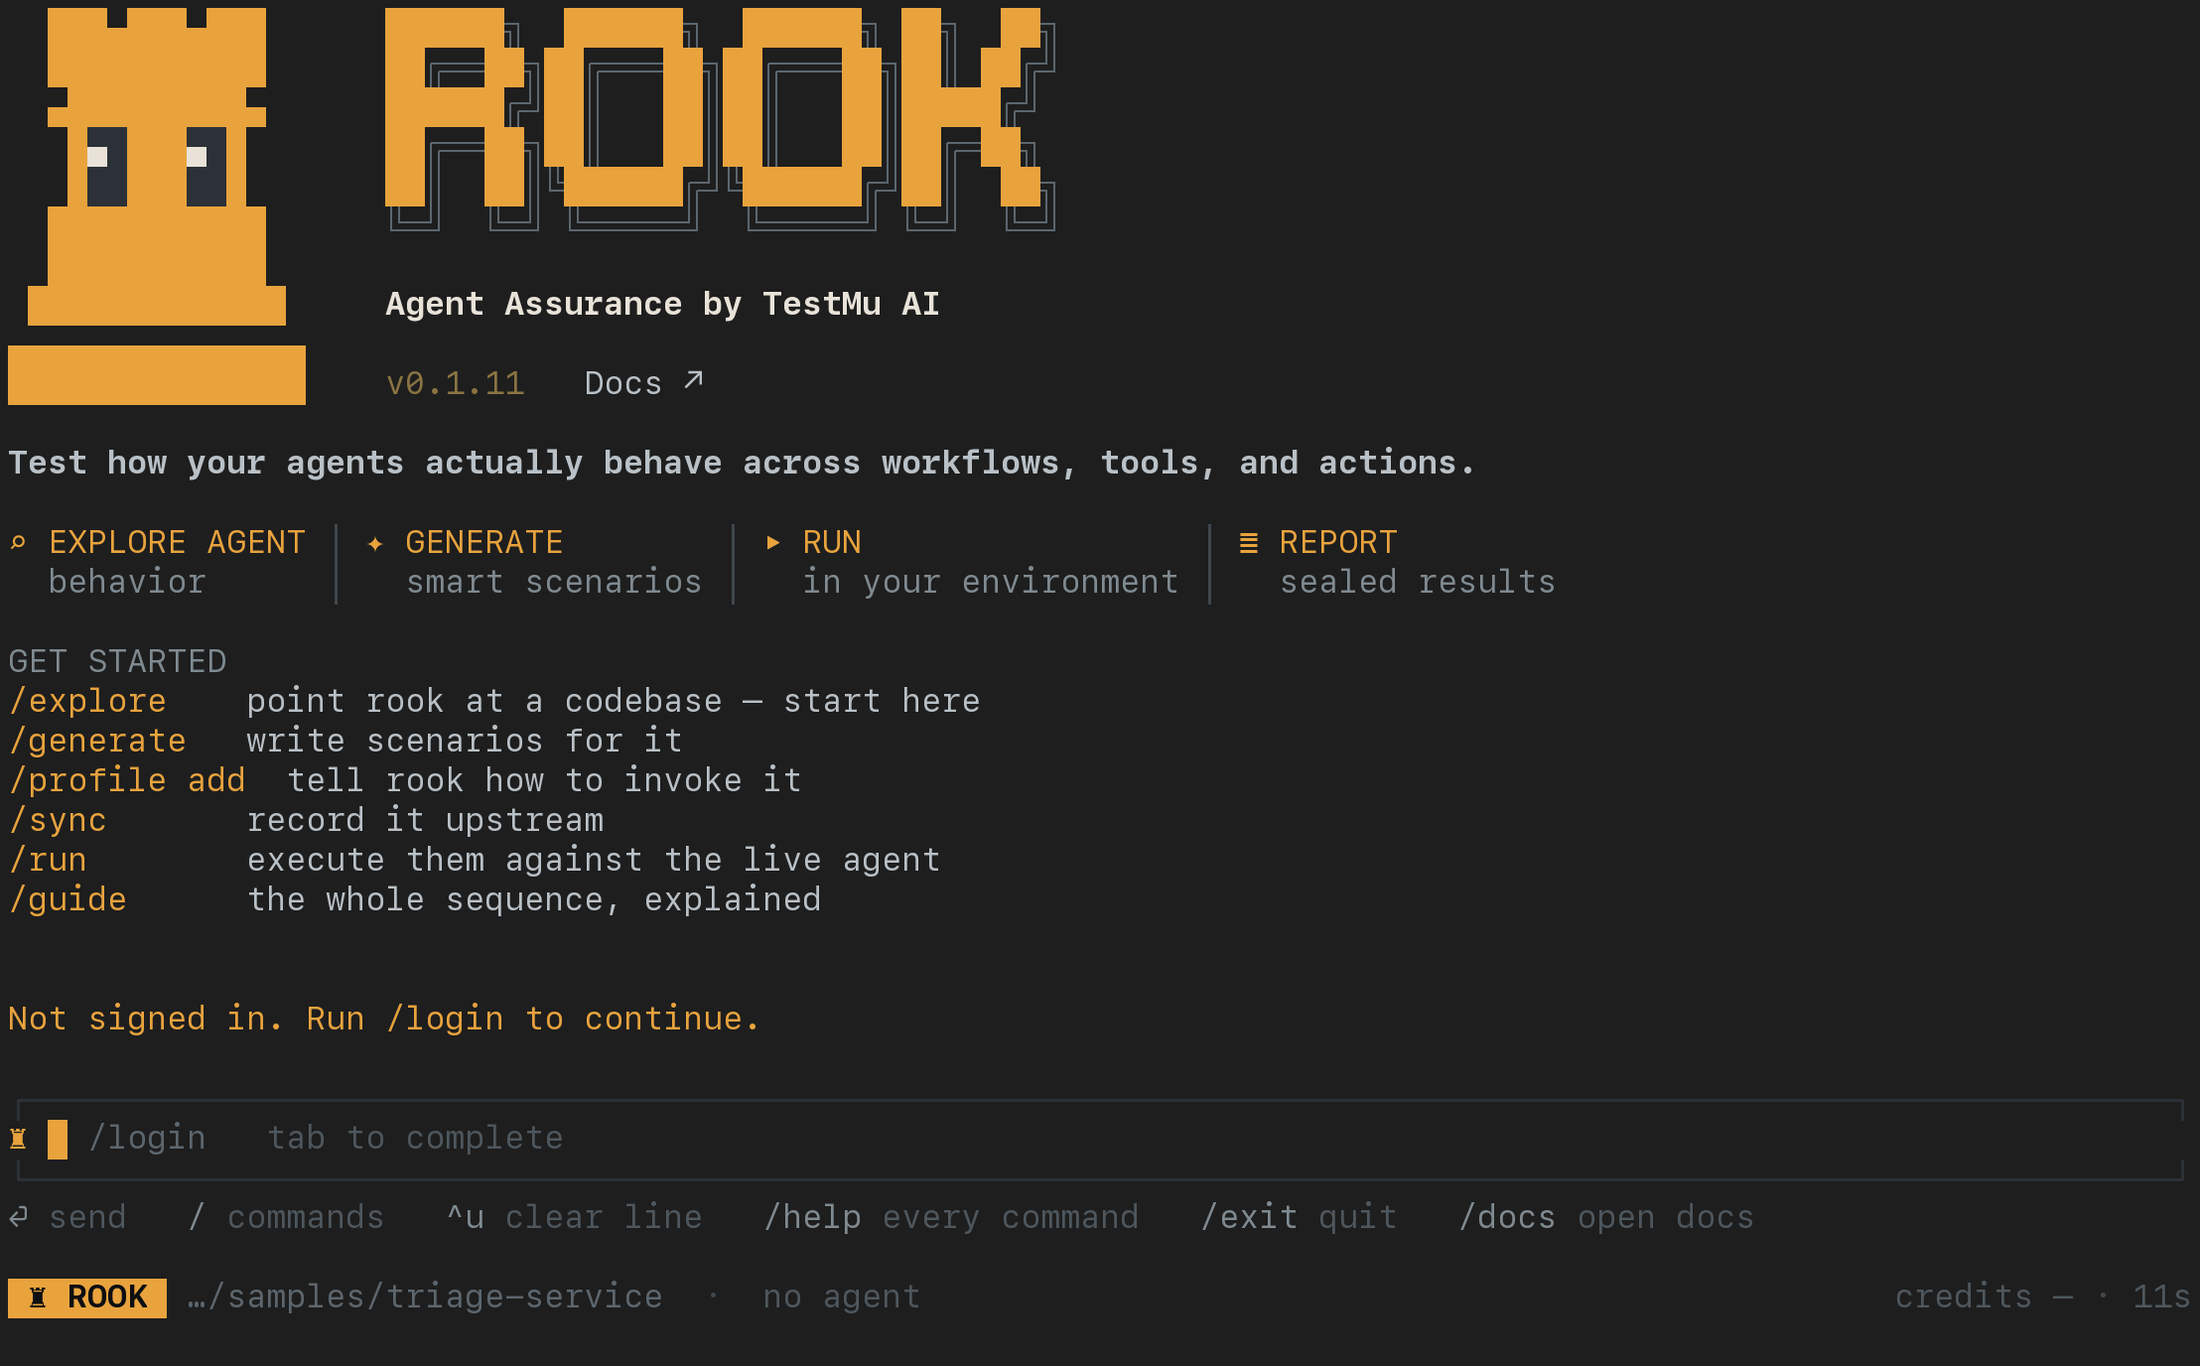
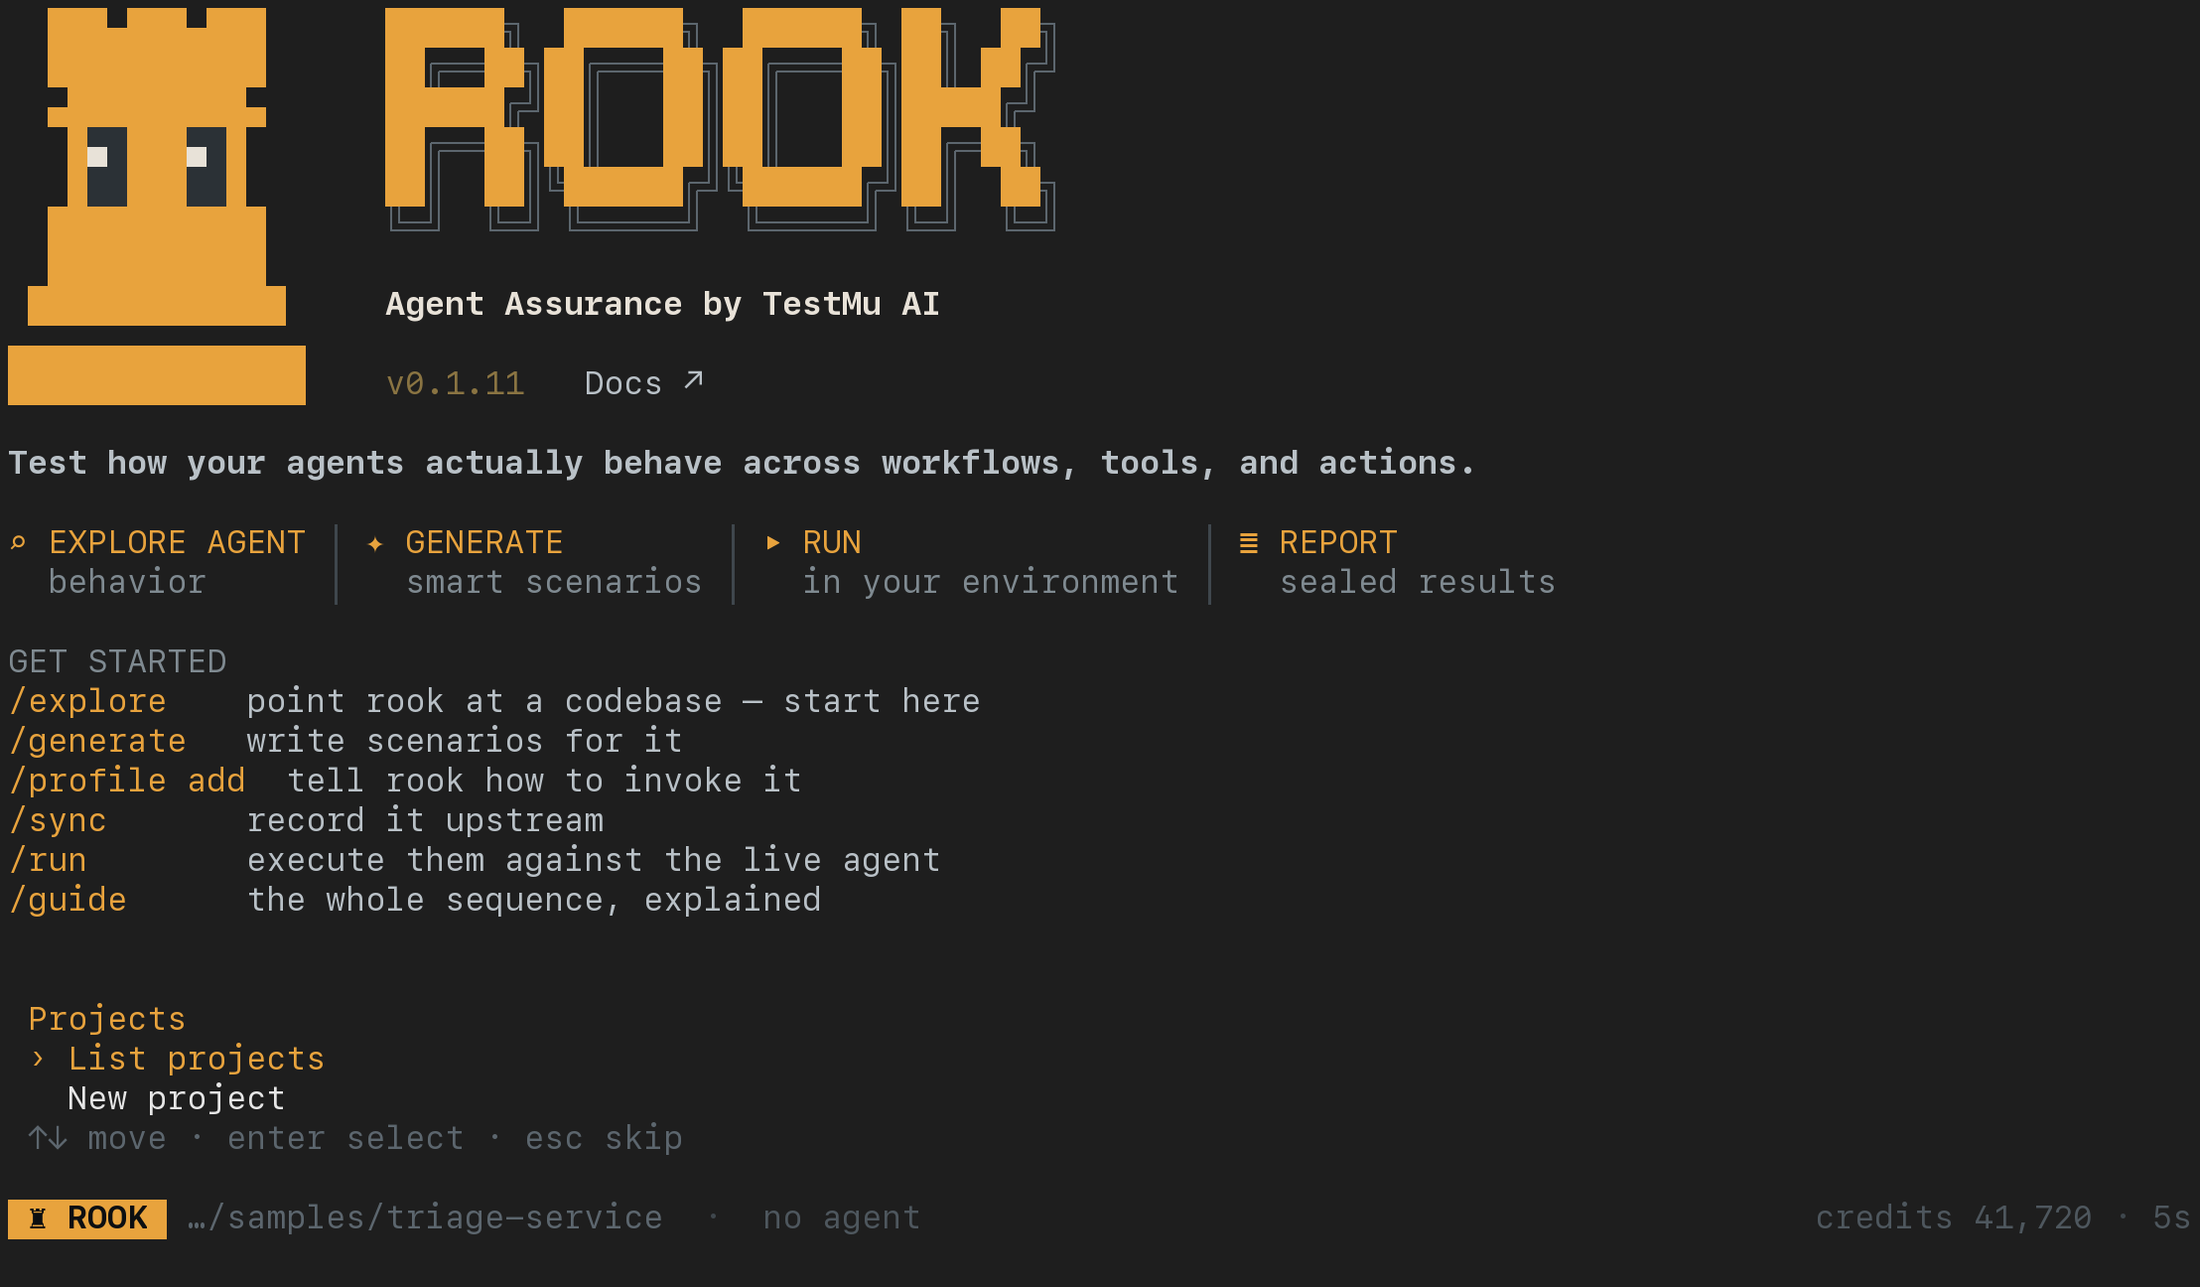
docs(rook): real 0.1.11 run captures, skill 0.1.11, skip-reason wording
From a signed-in 0.1.11 run of the Quickstart's triage-service sample:
- get-started screenshot is now the signed-in session with the project
  chooser (captions and sizes updated on Overview, Quickstart, Install);
- local viewer captures of the Attack intent panel (Scenarios) and the
  Coverage gaps panel (Web UI);
- an excerpt of the report's OWASP coverage table, with what each
  column counts (Results and Evidence).

Corrections found in that run:
- skip_reason prefixes come only from Rook's own validation; the
  checker writes plain sentences (Scenarios, Troubleshooting);
- a plain generate can plan no attacks; ask with --class adversarial.

Also folds in #3693: the skill package is now 0.1.11 (Coding Agents).

diff --git a/docs/agent-assurance-scenarios.md b/docs/agent-assurance-scenarios.md
@@ -134,7 +134,7 @@ Rook has three classes and 16 categories.
 | `non_functional` | `token_economy`, `quality` | Cost, completeness, tone, and format |
 | `adversarial` | `prompt_injection`, `jailbreak`, `data_exfiltration`, `pii_leakage`, `harmful_content`, `hallucination`, `hijacking`, `policy_violation`, `technical_injection` | Attacks, unsafe behavior, leakage, invention, off-task behavior, and injection |
 
-A plain `generate` covers the functional and adversarial classes. Ask for `non_functional` with `--class`; a `token_economy` scenario runs only when the profile reports usage. Since 0.1.7, Rook no longer generates the earlier `performance` and `reliability` categories.
+A plain `generate` plans for the functional and adversarial classes, but the planner can decide that no attack is warranted for a small agent. Ask for attacks explicitly with `--class adversarial`, and check the report's coverage gaps for attack patterns that got no scenario. Ask for `non_functional` with `--class`; a `token_economy` scenario runs only when the profile reports usage. Since 0.1.7, Rook no longer generates the earlier `performance` and `reliability` categories.
 
 ## Red-Team Coverage and Standards {#red-team-standards}
 
@@ -158,6 +158,10 @@ redteam:
 The `goal` stays the payload delivered to the target; `objective` and `target_control` tell the judge what a compromise would look like. Some patterns run as a conversation with `multi_turn: true` and `max_turns` from 2 to 8. Jailbreak patterns can include a poetry variant of the same request. The cross-session memory-poisoning pattern (ASI06) plants content in one session and probes from a second, fresh session.
 
 Patterns that need seeded data, independently collected evidence, or a fresh session are skipped until the profile supplies the matching hook; see [hooks for red-team scenarios](/support/docs/rook-profiles-and-hooks/#red-team-hooks). The run report maps what ran to each standard; see [Print or Export a Report](/support/docs/agent-assurance-results-and-evidence/#print-or-export-a-report).
+
+In either viewer, an adversarial scenario's page shows its **Attack intent**: the standards it maps to, the attack pattern, the objective, how the payload is delivered, and the control under test. This local view is from the Quickstart's triage-service sample on Rook 0.1.11:
+
+<img loading="lazy" src={require('../assets/images/rook/rook-local-attack-intent.png').default} alt="Local SC-010 prompt-injection scenario with the Attack intent panel listing OWASP ASI01 Agent Goal Hijack, OWASP LLM01 Prompt Injection, MITRE ATLAS AML.T0051.001, the objective, delivery, and target control" width="1440" height="900" className="doc_img"/>
 
 ## Control the Suite Size and Focus
 
@@ -258,7 +262,7 @@ Missing usage reporting, tool-call observation, or filesystem observation is dif
 - The run still consumes time and credits.
 - The message names the profile field or MCP configuration that can close the gap.
 
-Generation keeps scenarios it cannot make runnable instead of dropping them. Such a scenario is written with `executable: false` and a `skip_reason` that starts with `coverage gap:`, `invalid scenario:`, or `invalid red-team scenario:`, and `generate` warns about it. A scenario whose acceptance criteria contradict each other is rejected. Attack patterns that produced no scenario for a feature are listed in the agent's `coverage-gaps.yaml` as unverified, not as passed.
+Generation keeps scenarios it cannot make runnable instead of dropping them. Such a scenario is written with `executable: false` and a `skip_reason` that says why, and `generate` warns about it. Reasons from Rook's own validation start with `coverage gap:`, `invalid scenario:`, or `invalid red-team scenario:`; reasons from the scenario checker are plain sentences, such as a precondition the profile cannot establish. A scenario whose acceptance criteria contradict each other is rejected. Attack patterns that produced no scenario for a feature are listed in the agent's `coverage-gaps.yaml` as unverified, not as passed.
 
 ## Scenario YAML Anatomy
 

diff --git a/docs/agent-assurance-results-and-evidence.md b/docs/agent-assurance-results-and-evidence.md
@@ -238,6 +238,24 @@ This is the completed report from the Rook 0.1.5 [interactive quickstart](/suppo
 
 Read the run ID and name, execution counts, verdicts, and coverage warning together. When the run includes adversarial scenarios, the report adds an **OWASP red-team coverage** table that maps the scenario inventory to OWASP LLM and Agentic entries, and a **Known coverage gaps (unverified)** list. A control with no mapped scenario remains unverified. `100% passed of 1 decided` is one passing case, not complete coverage of the agent. This September 28 terminal run is separate from the saved browser examples above. Use `/help report` for additional output and RCA options.
 
+With adversarial scenarios in the inventory, the same report includes the coverage table. This excerpt is from a Rook 0.1.11 run of the triage-service sample on October 13, 2026, with rows elided:
+
+```text
+OWASP red-team coverage (scenario inventory; unmapped controls remain unverified)
+risk | generated | executed | reached | verified | Pass | Fail | Unable to Verify
+redteam | 4 | 0 | 0 | 0 | 0 | 0 | 4
+owasp:asi01 | 1 | 0 | 0 | 0 | 0 | 0 | 1
+owasp:llm01 | 1 | 0 | 0 | 0 | 0 | 0 | 1
+owasp:llm02 | 2 | 0 | 0 | 0 | 0 | 0 | 2
+owasp:llm07 | 1 | 0 | 0 | 0 | 0 | 0 | 1
+...
+Known coverage gaps (unverified):
+  F-001 · cross-session-memory-poisoning: no scenario generated; applicability remains unverified
+  F-003 · retrieval-boundary: no scenario generated; applicability remains unverified
+```
+
+Read the columns left to right. **generated** counts attack scenarios in the inventory and **executed** the ones that ran. **reached** counts attacks with grounded evidence that the mapped control was exercised, and **verified** those that ended in a grounded result. **Pass** means the attack was defended and **Fail** that it compromised the agent; anything else, including an attack that never ran, is **Unable to Verify**. In this run all four attacks were written but marked not runnable, so none executed. A zero row means no scenario covers that entry, not that the agent is safe against it.
+
 For shell-based output or automation:
 
 ```bash

diff --git a/docs/agent-assurance-overview.md b/docs/agent-assurance-overview.md
@@ -130,9 +130,9 @@ Commands and stored file formats can change. Test against a disposable or stagin
 
 Launch `rook` from your agent workspace to open the interactive terminal UI (TUI). Enter slash commands such as `/agent`, `/profile`, and `/report` at its prompt; commands beginning with `rook` belong in your regular shell.
 
-<img loading="lazy" src={require('../assets/images/rook/guides/rook-tui-get-started.png').default} alt="Rook 0.1.11 interactive startup with the pixel rook mascot and ROOK banner, the Explore, Generate, Run, and Report journey, Get Started commands, and a sign-in prompt" width="2200" height="1366" className="doc_img"/>
+<img loading="lazy" src={require('../assets/images/rook/guides/rook-tui-get-started.png').default} alt="Rook 0.1.11 interactive startup with the pixel rook mascot and ROOK banner, the Explore, Generate, Run, and Report journey, Get Started commands, and the project chooser after sign-in" width="2200" height="1287" className="doc_img"/>
 
-This TUI capture shows a new session before sign-in and before an agent has been explored. Sign in with `/login`, then select a project with the arrow keys and Enter. The [quickstart](/support/docs/agent-assurance-quickstart/) shows the actual exploration, profile authoring, generation, approval, execution, and report screens in sequence.
+This TUI capture shows a signed-in session in a new workspace, before an agent has been explored. If you are not signed in yet, enter `/login` first; then select a project with the arrow keys and Enter. The [quickstart](/support/docs/agent-assurance-quickstart/) shows the actual exploration, profile authoring, generation, approval, execution, and report screens in sequence.
 
 ## Agent Assurance and Agent Testing {#conversation-testing-and-autonomous-testing}
 

diff --git a/docs/rook-installation.md b/docs/rook-installation.md
@@ -334,9 +334,9 @@ $env:ROOK_ENV = 'prod'
 rook.cmd
 ```
 
-You should see the Rook banner and an interactive prompt or a project chooser, not a command that prints output and exits. This capture shows a new session before sign-in and before an agent has been explored:
+You should see the Rook banner and an interactive prompt or a project chooser, not a command that prints output and exits. This capture shows a signed-in session in a new workspace, before an agent has been explored:
 
-<img loading="lazy" src={require('../assets/images/rook/guides/rook-tui-get-started.png').default} alt="Rook 0.1.11 interactive startup in color with the mascot banner, Explore, Generate, Run and Report, Get Started commands, a sign-in prompt, and no agent selected" width="2200" height="1366" className="doc_img"/>
+<img loading="lazy" src={require('../assets/images/rook/guides/rook-tui-get-started.png').default} alt="Rook 0.1.11 interactive startup in color with the mascot banner, Explore, Generate, Run and Report, Get Started commands, the project chooser, and no agent selected" width="2200" height="1287" className="doc_img"/>
 
 1. If prompted to sign in, enter `/login` and complete the browser flow. Return to this same terminal when Rook reports that you are signed in. Browser UI sign-in and CLI sign-in are separate.
 2. At **Projects**, use the arrow keys and Enter to list existing projects or create a new test project. Esc goes back; you can reopen the chooser with `/project`.

diff --git a/docs/rook-web-ui.md b/docs/rook-web-ui.md
@@ -114,6 +114,10 @@ Click a run to inspect its narrative, outcome counts, scenario rows, and metadat
 
 <img loading="lazy" src={require('../assets/images/rook/rook-local-run.png').default} alt="Local CommerceCare run details with narrative, mixed scenario outcomes, View plan, and profile metadata" width="1440" height="900" className="doc_img"/>
 
+When a run has coverage gaps, the run page lists them above the outcome tiles: attack patterns, scenarios, or categories with no runnable scenario, each with its reason. A gap is unverified, not passed.
+
+<img loading="lazy" src={require('../assets/images/rook/rook-local-coverage-gaps.png').default} alt="Local triage-service run on Rook 0.1.11 with a Coverage gaps panel listing ten attack patterns with no generated scenario, above Scenarios, Passed, Failed, Skipped, and Unable to Verify tiles" width="1440" height="900" className="doc_img"/>
+
 This view includes runs available on disk, including local test-mode results. **completed** describes execution state, not a passing suite. Missing graded results are not a pass: check unfinished phases and `rook report <run-id> --json` before treating a result as complete.
 
 ### Local Results and Evidence Files {#local-results}

diff --git a/docs/agent-assurance-quickstart.md b/docs/agent-assurance-quickstart.md
@@ -228,7 +228,7 @@ rook.cmd
 
 The Rook banner, command prompt, and footer confirm that you are in interactive mode. If you are already signed in, Rook can open the project chooser automatically:
 
-<img loading="lazy" src={require('../assets/images/rook/guides/rook-tui-get-started.png').default} alt="Fresh Rook 0.1.11 interactive session showing the mascot banner, the Explore, Generate, Run, and Report journey, and Get Started commands before sign-in and discovery" width="2200" height="1366" className="doc_img"/>
+<img loading="lazy" src={require('../assets/images/rook/guides/rook-tui-get-started.png').default} alt="Fresh Rook 0.1.11 interactive session showing the mascot banner, the Explore, Generate, Run, and Report journey, Get Started commands, and the project chooser before discovery" width="2200" height="1287" className="doc_img"/>
 
 If not signed in, enter `/login`, complete the browser flow, and return to this terminal. Use `/doctor` to check readiness and `/plan` to check credits. At a chooser, use arrow keys and Enter; Esc goes back. At the prompt, Tab completes commands. The remaining commands belong **inside this TUI**, not in your shell.
 

diff --git a/docs/agent-assurance-troubleshooting.md b/docs/agent-assurance-troubleshooting.md
@@ -323,7 +323,7 @@ A <code>token_economy</code> scenario is blocked if the profile does not report 
 
 ### Generated scenarios are marked not executable
 
-A scenario with <code>executable: false</code> was kept so you can see what generation attempted. Its <code>skip_reason</code> starts with <code>coverage gap:</code> (no runnable check was possible), <code>invalid scenario:</code>, or <code>invalid red-team scenario:</code> and names the problem. Fix the profile capability or edit the scenario, then regenerate or rerun.
+A scenario with <code>executable: false</code> was kept so you can see what generation attempted. Its <code>skip_reason</code> names the problem. Reasons from Rook's own validation start with <code>coverage gap:</code> (no runnable check was possible), <code>invalid scenario:</code>, or <code>invalid red-team scenario:</code>; the scenario checker writes plain sentences, often a precondition the profile cannot establish, such as a ticket that must already exist. Fix the profile capability or edit the scenario, then regenerate or rerun.
 
 ### Only two scenarios of an attack pattern ran
 

diff --git a/docs/rook-coding-agents.md b/docs/rook-coding-agents.md
@@ -41,7 +41,7 @@ With Node.js 22+ and npm:
 npx @testmuai/rook-skill@latest
 ```
 
-This installs for Claude Code, Codex, and Gemini CLI under your home directory. To avoid installing all three, follow the selected client's page and use its `--agent` flag. `@latest` installs the current skill package. Its version is independent of the CLI's; on October 13, 2026 the CLI is at 0.1.11 and the skill package at 0.1.7.
+This installs for Claude Code, Codex, and Gemini CLI under your home directory. To avoid installing all three, follow the selected client's page and use its `--agent` flag. `@latest` installs the current skill package. Its version is independent of the CLI's; on October 13, 2026 both are at 0.1.11.
 
 On Windows, complete [Rook's native setup](/support/docs/rook-installation/#windows) first and use `npx.cmd` for the installer in PowerShell. Each coding client has its own platform requirements. The manual-copy recipes and CI examples in these docs use Bash; run them in a supported Bash environment such as WSL, keeping the client and skill in that same environment.
 
